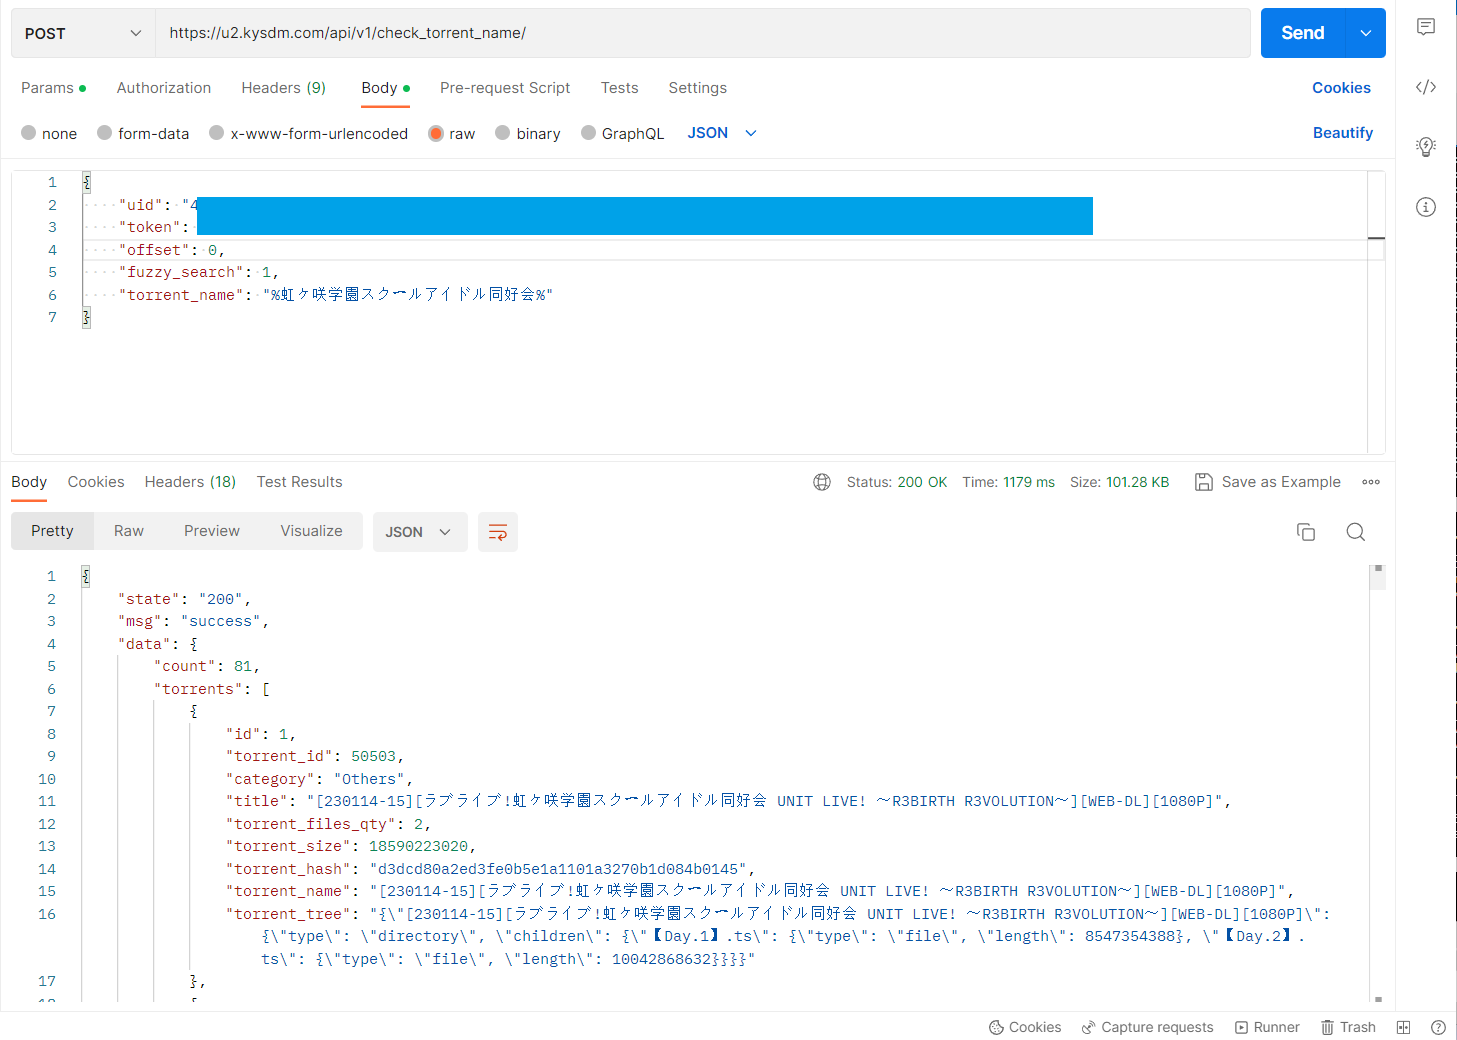
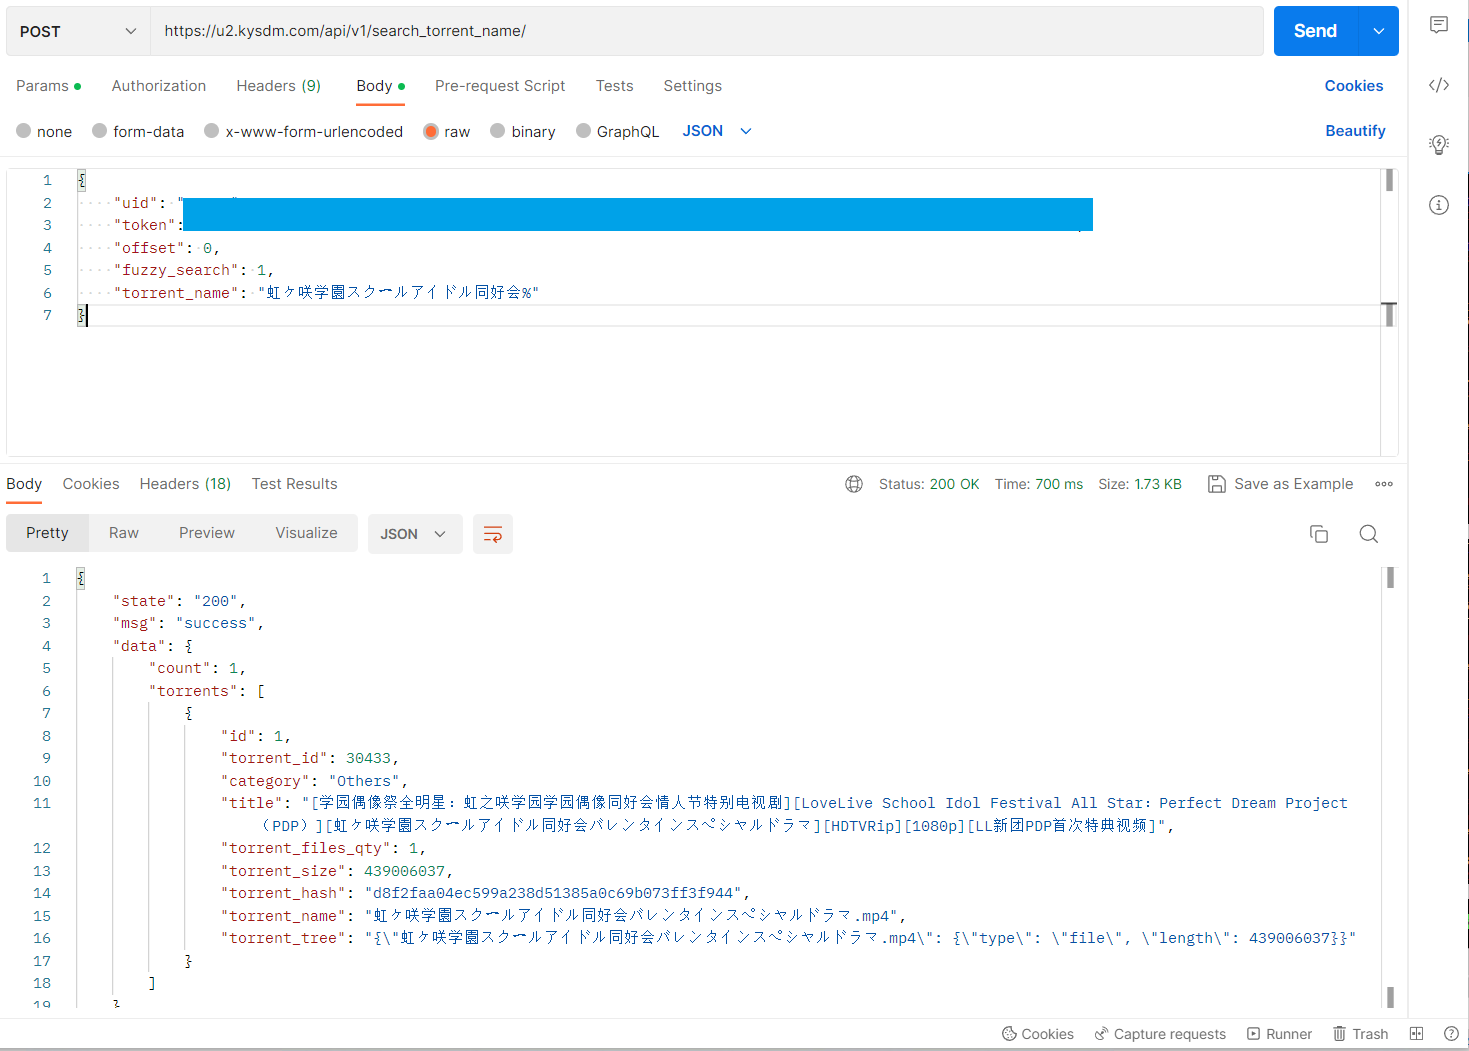
fix.

diff --git a/README.md b/README.md
@@ -349,7 +349,7 @@ token 至多生效7个，每个 token 有效期为45天，每次成功请求 tok
 >> '%abcabc' 可匹配 "__abcabc"
 ```
 
-`POST` `https://u2.kysdm.com/api/v1/check_torrent_name/`
+`POST` `https://u2.kysdm.com/api/v1/search_torrent_name/`
 
 |  参数   | 数据类型  | 说明  |
 |  :--:  | :--:  | ----  |
